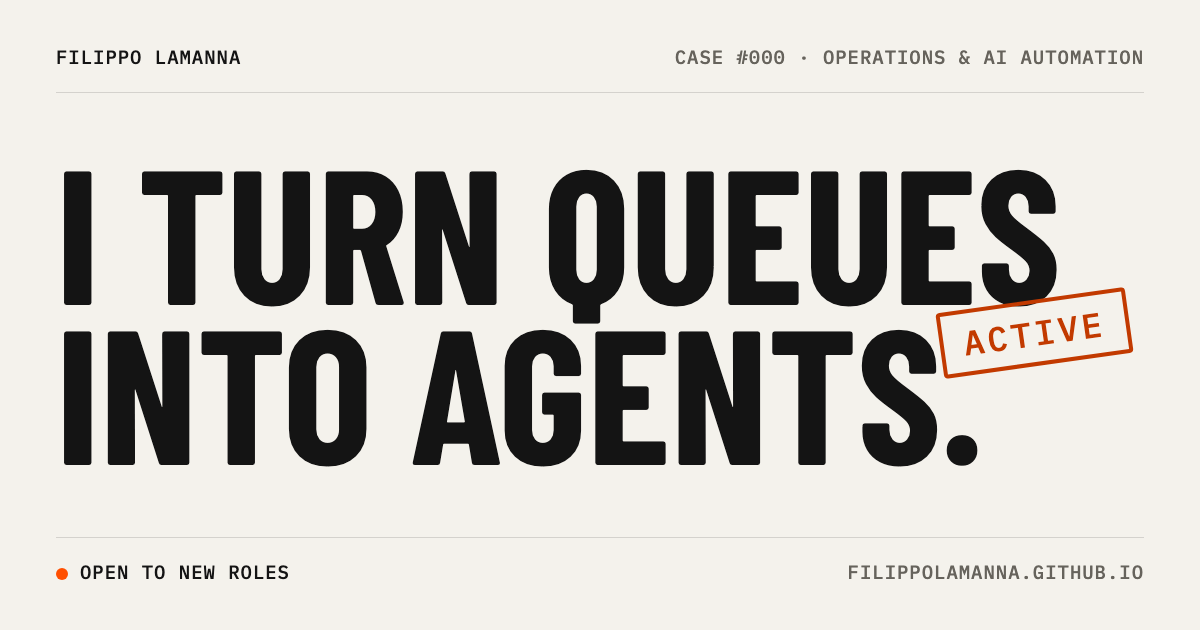
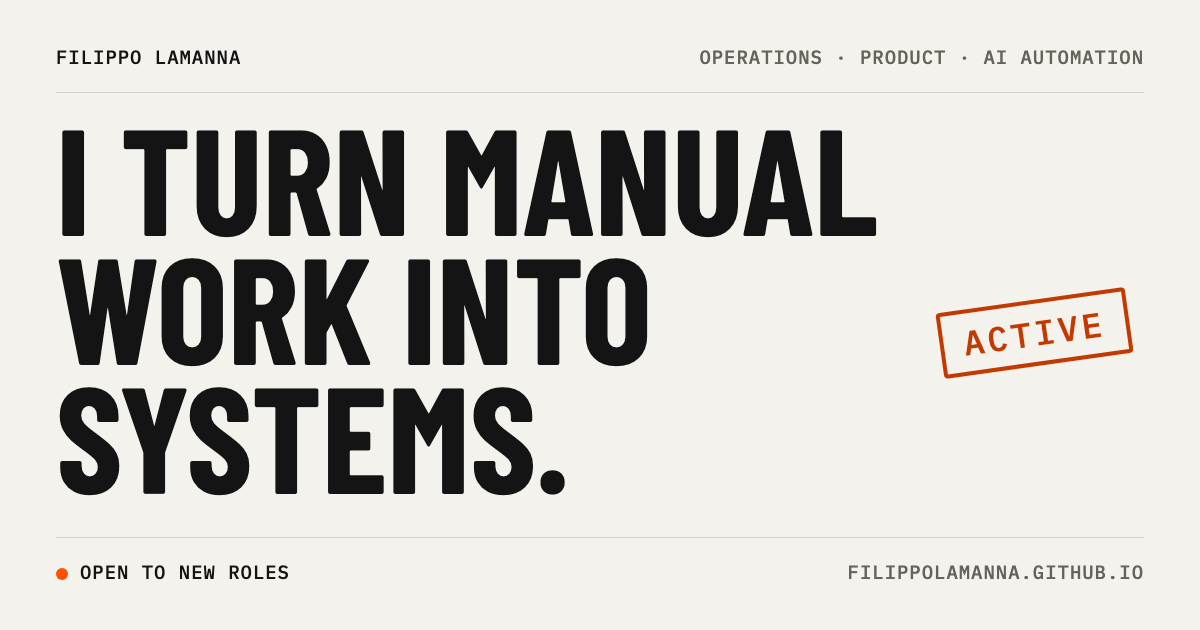
Positioning: 'I turn manual work into systems.', new title, lede and description

Changed region(s): [[0.0308, 0.181, 0.8942, 0.7841], [0.555, 0.0603, 0.8017, 0.1206]]

diff --git a/index.html b/index.html
@@ -3,10 +3,10 @@
 <head>
 <meta charset="utf-8">
 <meta name="viewport" content="width=device-width, initial-scale=1">
-<title>Filippo Lamanna · Operations &amp; AI Automation</title>
-<meta name="description" content="Filippo Lamanna builds AI agents and automation for operations teams. Case studies: Hound, Orb, Magpie, Cadence, Cirulla and a running-form tracker.">
-<meta property="og:title" content="Filippo Lamanna · Operations &amp; AI Automation">
-<meta property="og:description" content="AI agents and automation for operations teams, with the results they delivered.">
+<title>Filippo Lamanna · Operations, Product &amp; AI Automation</title>
+<meta name="description" content="Operations and product in Milan. Case studies of the tools I built to take manual work out of operations, from AI agents to low-code apps, and the results they delivered.">
+<meta property="og:title" content="Filippo Lamanna · Operations, Product &amp; AI Automation">
+<meta property="og:description" content="Operations and product in Milan. Case studies of the tools I built to take manual work out of operations, from AI agents to low-code apps, and the results they delivered.">
 <meta property="og:image" content="https://filippolamanna.github.io/assets/img/og.png">
 <meta property="og:url" content="https://filippolamanna.github.io/">
 <meta property="og:type" content="website">
@@ -37,11 +37,11 @@
 </footer>
 <main id="main">
   <section class="hero">
-    <div class="hero-meta mono"><span>CASE #000</span><span>OPERATOR · FILIPPO LAMANNA</span><span>OPERATIONS &amp; AI AUTOMATION</span><span class="stamp">ACTIVE</span></div>
+    <div class="hero-meta mono"><span>CASE #000</span><span>OPERATOR · FILIPPO LAMANNA</span><span>OPERATIONS, PRODUCT &amp; AI AUTOMATION</span><span class="stamp">ACTIVE</span></div>
     <div class="hero-grid">
       <div class="hero-copy">
-        <h1 class="display hero-title">I turn queues<br>into agents.</h1>
-        <p class="hero-lede">I work in operations at a travel-tech startup in Milan, and I build the things that run it: agents, bots and tools, plus the odd app of my own.</p>
+        <h1 class="display hero-title">I turn manual work into systems.</h1>
+        <p class="hero-lede">I work in operations and product in Milan, and I build the tools that take manual work out of it: AI agents, bots, low-code apps and automations, plus the odd app of my own.</p>
         <p class="mono muted">STARTUP · OPS · AI AUTOMATION · PRODUCT MANAGEMENT</p>
       </div>
       <div class="chat-wrap">

diff --git a/assets/css/site.css b/assets/css/site.css
@@ -66,7 +66,7 @@ main { position: relative; padding: var(--frame-h) var(--edge) var(--status-h); 
 .hero { padding: 28px 0 56px; }
 .hero-meta { display: flex; flex-wrap: wrap; gap: 8px 28px; align-items: center; color: var(--muted); padding-bottom: 28px; }
 .hero-grid { display: grid; grid-template-columns: minmax(0, 1.15fr) minmax(0, 1fr); gap: 48px; align-items: end; }
-.hero-title { font-size: clamp(68px, min(10vw, 15vh), 176px); }
+.hero-title { font-size: clamp(56px, min(7.2vw, 12vh), 140px); text-wrap: balance; }
 .hero-lede { font: 400 20px/1.5 var(--f-body); max-width: 560px; margin: 28px 0 14px; }
 
 /* Hero chat */

diff --git a/404.html b/404.html
@@ -35,7 +35,7 @@
 <main id="main" class="project">
   <header class="project-head">
     <div class="project-top mono"><span class="case-no">#404</span><span class="stamp">NOT FOUND</span></div>
-    <h1 class="display">404 · Case<br>not found</h1>
+    <h1 class="display">404 · Case <br>not found</h1>
     <p class="lede">There's no case at this address. The open ones are one click away.</p>
     <a class="btn" href="/">BACK TO THE HOME PAGE →</a>
   </header>
